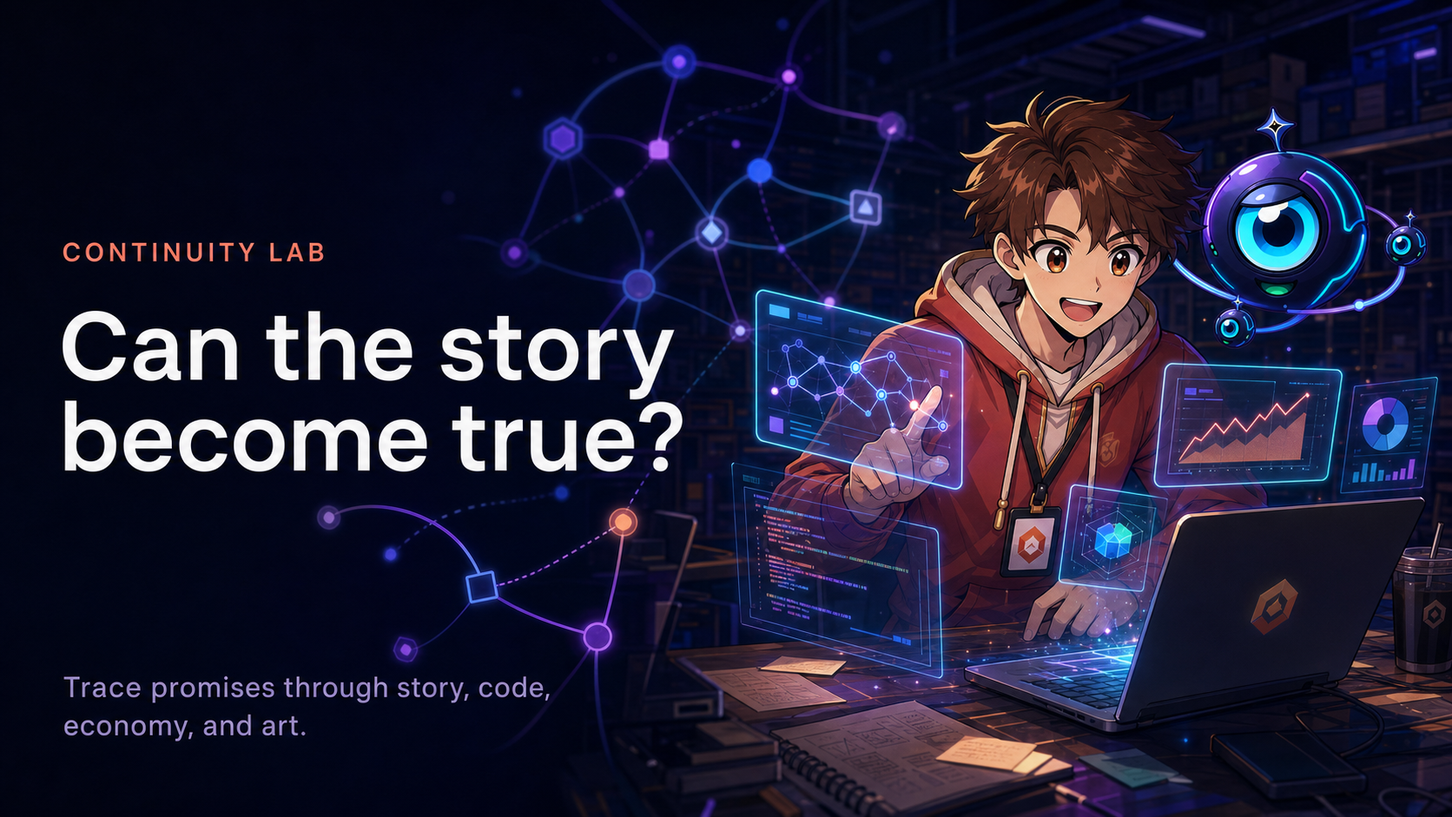
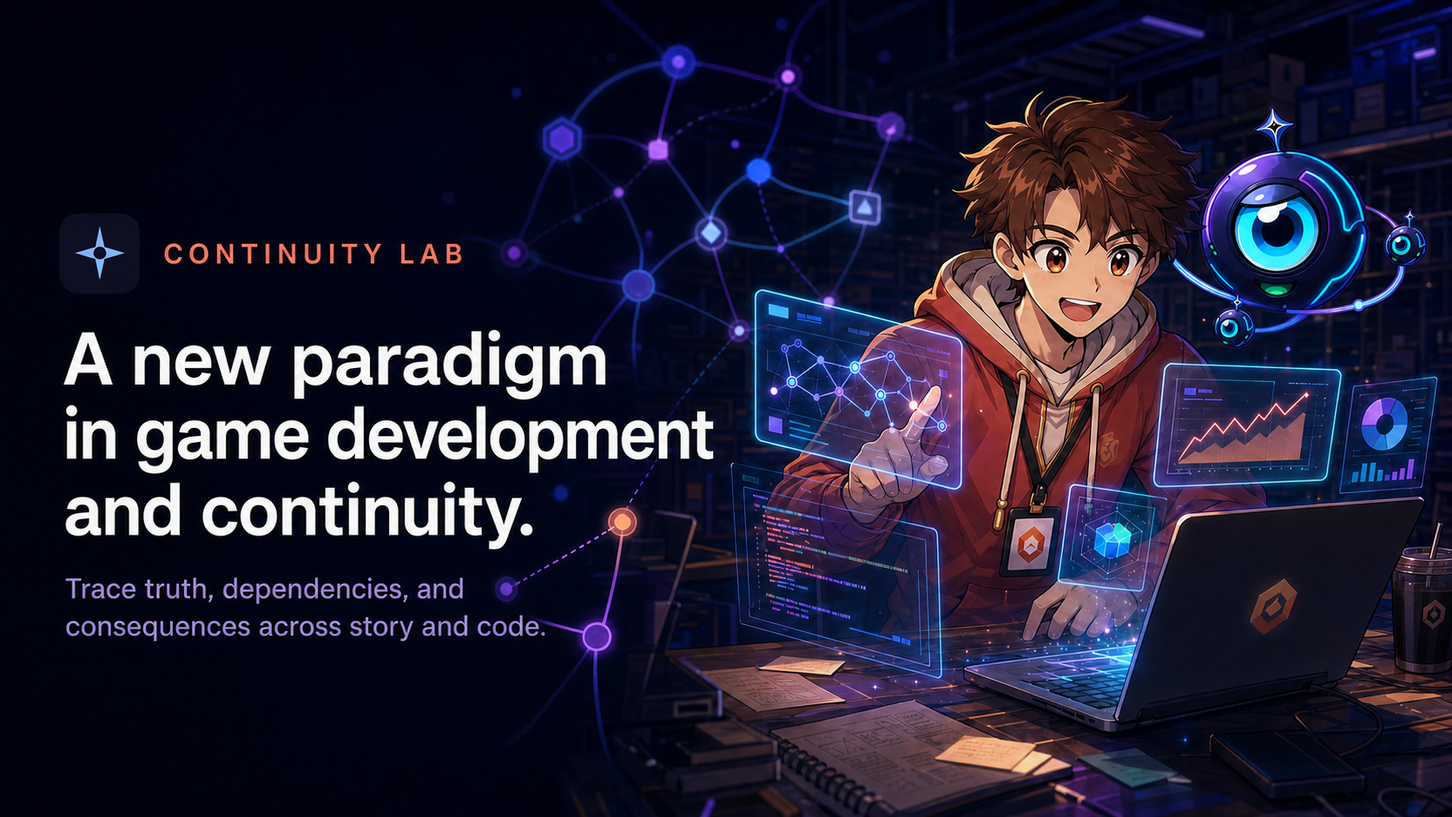
Polish Continuity Lab Build Week demo

diff --git a/app/page.tsx b/app/page.tsx
@@ -217,7 +217,6 @@ export default function Home() {
   const [analysisReceipt, setAnalysisReceipt] = useState<AnalysisReceipt | null>(REVIEWED_EXAMPLE_RECEIPT);
   const [isAnalyzing, setIsAnalyzing] = useState(false);
   const [isUploading, setIsUploading] = useState(false);
-  const [uploadDocumentType, setUploadDocumentType] = useState<UploadDocumentType>("narrative");
   const [engineMode, setEngineMode] = useState<EngineMode>("demonstration");
   const [answer, setAnswer] = useState<UiAnswer>(REVIEWED_EXAMPLE_ANSWER);
   const [sources, setSources] = useState<StoredSource[]>([]);
@@ -390,7 +389,7 @@ export default function Home() {
         const form = new FormData();
         form.set("projectId", WORKSPACE_PROJECT_ID);
         form.set("projectTitle", "Continuity Lab workspace");
-        form.set("documentType", uploadDocumentType);
+        form.set("documentType", "narrative");
         form.set("file", file);
         const response = await fetch("/api/continuity/sources", { method: "POST", body: form });
         const payload = await response.json() as { source?: StoredSource; capability?: string; message?: string; error?: string };
@@ -404,7 +403,7 @@ export default function Home() {
       if (stored) setProjectMode("workspace");
       showToast(failures.length
         ? `${stored} stored · ${failures.length} rejected${ignored ? ` · ${ignored} beyond the 12-file limit` : ""}: ${failures[0]}`
-        : `${stored} source${stored === 1 ? "" : "s"} stored as ${uploadDocumentType} evidence${ignored ? ` · ${ignored} beyond the 12-file limit were not sent` : ""}`);
+        : `${stored} source${stored === 1 ? "" : "s"} stored as project material${ignored ? ` · ${ignored} beyond the 12-file limit were not sent` : ""}`);
       return stored > 0;
     } catch (error) {
       showToast(error instanceof Error ? error.message : "Upload failed.");
@@ -507,11 +506,13 @@ export default function Home() {
 
   function selectWorkspace() {
     setProjectMode("workspace");
+    setSourcePanel(repository.phase === "ready" ? "github" : "upload");
     setHasAnalyzed(false);
     setAnalysisReceipt(null);
     setAnswer(EMPTY_ANSWER);
     setEngineMode("ready");
     setShowFullTrace(false);
+    window.requestAnimationFrame(() => document.getElementById("sources")?.scrollIntoView({ behavior: "smooth", block: "start" }));
   }
 
   function toggleTheme() {
@@ -534,7 +535,7 @@ export default function Home() {
   return (
     <main data-theme={theme}>
       <nav className="topbar">
-        <a className="brand" href="#top" aria-label="Continuity Lab home"><span className="brand-mark"><Icon name="branch" size={18}/></span><span>Continuity <i>Lab</i></span></a>
+        <a className="brand" href="#top" aria-label="Continuity Lab home"><img className="brand-logo" src="/continuity-lab-plugin-icon.png" alt=""/><span>Continuity <i>Lab</i></span></a>
         <div className="nav-status"><span className="status-dot"/><span>{sourceLabel}</span></div>
         <div className="nav-actions"><a href="#sources">How it works</a><button className="theme-toggle" onClick={toggleTheme} aria-label={`Switch to ${theme === "dark" ? "light" : "dark"} mode`}><Icon name={theme === "dark" ? "sun" : "moon"} size={15}/><span>{theme === "dark" ? "Light" : "Dark"}</span></button>{canDownloadWorkspaceResults && <button onClick={exportTrace}><Icon name="download" size={15}/> Download my results</button>}</div>
       </nav>
@@ -544,19 +545,19 @@ export default function Home() {
         <div className="hero-inner">
           <div className="hero-copy-block">
             <div className="eyebrow">STORY QUESTIONS, ANSWERED FROM YOUR OWN MATERIAL</div>
-            <h1>Find story problems<br/><em>before they get expensive.</em></h1>
+            <h1>Towards a new paradigm in<br/><em>game development and continuity.</em></h1>
             <p>Add your script, notes, or public game repository. Ask what is true, what can happen next, or what else must change if you edit a character, rule, cost, scene, or ending. Continuity Lab answers in plain language and shows the sources it used.</p>
           </div>
 
           <div className="question-card">
             <div className="mode-row">
               <button className={projectMode === "sample" ? "active" : ""} onClick={() => showReviewedExample()}><span/> Show the example</button>
-              <button className={projectMode === "workspace" ? "active" : ""} onClick={selectWorkspace}><span/> Use my files</button>
+              <button className={projectMode === "workspace" ? "active" : ""} onClick={selectWorkspace}><span/> {workspaceEvidenceCount ? "Use my project" : "Add my project"}</button>
             </div>
             <label htmlFor="continuity-question">Ask about the story or a planned change</label>
             <textarea id="continuity-question" value={question} onChange={(event) => setQuestion(event.target.value)} />
             <div className="question-footer">
-              <div className={`engine-badge ${engineMode}`}><span/>{engineLabel(engineMode, projectMode)}</div>
+              <div className={`engine-badge ${engineMode}`}><span/>{engineLabel(engineMode, projectMode, workspaceEvidenceCount > 0)}</div>
               <button className="primary-button" onClick={() => void analyze()} disabled={isAnalyzing || !question.trim()}>{isAnalyzing ? <span className="spinner"/> : <Icon name="arrow" size={18}/>} {isAnalyzing ? "Checking evidence…" : "Ask"}</button>
             </div>
           </div>
@@ -568,7 +569,7 @@ export default function Home() {
       <section className="sources-section" id="sources">
         <div className="section-intro">
           <div><div className="eyebrow dark">QUICK START</div><h2>How it works</h2></div>
-          <p>Start with the worked example, upload your own files, or connect a public GitHub repository. Ask a question. Continuity Lab finds the relevant material, explains its answer, and suggests what to change when something is missing or inconsistent.</p>
+          <p>Run the worked example here, add project material, or connect a public GitHub repository. For the Build Week demonstration, connect the MCP to ChatGPT and ask the same evidence-grounded questions in conversation.</p>
         </div>
 
         <div className="pipeline" aria-label="Continuity Lab processing pipeline">
@@ -577,7 +578,7 @@ export default function Home() {
 
         <div className="source-workspace">
           <div className="source-tabs" role="tablist">
-            {(["sample", "upload", "github", "mcp"] as SourcePanel[]).map((tab) => <button key={tab} role="tab" aria-selected={sourcePanel === tab} className={sourcePanel === tab ? "active" : ""} onClick={() => setSourcePanel(tab)}>{tab === "sample" ? "Worked example" : tab === "upload" ? "Upload files" : tab === "github" ? "GitHub repository" : "Use in ChatGPT"}</button>)}
+            {(["sample", "upload", "github", "mcp"] as SourcePanel[]).map((tab) => <button key={tab} role="tab" aria-selected={sourcePanel === tab} className={sourcePanel === tab ? "active" : ""} onClick={() => setSourcePanel(tab)}>{tab === "sample" ? "Worked example" : tab === "upload" ? "Upload material" : tab === "github" ? "Connect GitHub" : "Try Continuity Lab today!"}</button>)}
           </div>
 
           <div className="source-panel">
@@ -585,7 +586,7 @@ export default function Home() {
               <SamplePanel onAsk={showReviewedExample}/>
             )}
             {sourcePanel === "upload" && (
-              <UploadPanel sources={sources} isUploading={isUploading} documentType={uploadDocumentType} setDocumentType={setUploadDocumentType} onChange={addSource} onPaste={addPastedSource}/>
+              <UploadPanel sources={sources} isUploading={isUploading} onChange={addSource} onPaste={addPastedSource}/>
             )}
             {sourcePanel === "github" && (
               <GitHubPanel
@@ -634,7 +635,7 @@ export default function Home() {
         ) : answer.depth === "focused" && !showFullTrace ? (
           <article className="focused-answer-trace">
             <div><span>KEY CONTEXT</span><strong>{answer.entities.slice(0, 4).map((entity) => entity.name).join(" · ") || "No person or item was identified confidently"}</strong><small>{answer.evidence.slice(0, 3).map((item) => item.title || item.sourceId).join(" · ") || "No supporting source was found"}</small></div>
-            <button type="button" onClick={() => setShowFullTrace(true)}>Show sources and dependencies <Icon name="arrow" size={14}/></button>
+            <button type="button" onClick={() => setShowFullTrace(true)}>Show all sources and dependencies <Icon name="arrow" size={14}/></button>
           </article>
         ) : <>
           <div className="inspection-grid">
@@ -670,28 +671,23 @@ export default function Home() {
       </section>
 
       <section className="build-week-section">
-        <div><div className="eyebrow">FROM QUESTION TO ACTION</div><h2>Know what is true.<br/><em>See what comes next.</em></h2></div>
-        <div className="proof-points"><div><span>01</span><strong>Bring your material</strong><p>Use a script, story bible, notes, or a public repository.</p></div><div><span>02</span><strong>Ask a real question</strong><p>Check a fact, a possible event, a contradiction, or a planned change.</p></div><div><span>03</span><strong>Get useful next steps</strong><p>See the answer, the supporting sources, and the work needed to make the idea fit.</p></div></div>
+        <div><div className="eyebrow">FROM QUESTION TO ACTION</div><h2>Know what is true.<br/><em>See what comes next.</em></h2><p className="future-intro">Today Continuity Lab answers and traces in read-only mode. The longer-term opportunity is an agent preflight: plan against project truth, make a bounded change, then verify every affected dependency before shipping.</p></div>
+        <div className="proof-points"><div><span>01</span><strong>Bring your material</strong><p>Use a script, story bible, notes, or a public repository.</p></div><div><span>02</span><strong>Ask a real question</strong><p>Check a fact, possible event, contradiction, dependency, or planned change.</p></div><div><span>03</span><strong>Get useful next steps</strong><p>See the answer, supporting sources, and work needed to make the idea fit.</p></div><div><span>04 · FUTURE</span><strong>Guide autonomous development</strong><p>Give coding and narrative agents a grounded stop/go contract, then re-check downstream effects after every edit.</p></div></div>
       </section>
 
-      <footer><div className="brand"><span className="brand-mark"><Icon name="branch" size={18}/></span><span>Continuity <i>Lab</i></span></div><p>Keep every story change grounded in what came before.</p><button onClick={() => window.scrollTo({ top: 0, behavior: "smooth" })}>Back to top ↑</button></footer>
+      <footer><div className="brand"><img className="brand-logo" src="/continuity-lab-plugin-icon.png" alt=""/><span>Continuity <i>Lab</i></span></div><p>Keep every story change grounded in what came before.</p><button onClick={() => window.scrollTo({ top: 0, behavior: "smooth" })}>Back to top ↑</button></footer>
       {toast && <div className="toast"><Icon name="check" size={16}/>{toast}</div>}
     </main>
   );
 }
 
 function SamplePanel({ onAsk }: { onAsk: (question?: string) => void }) {
-  return <div className="sample-panel"><div className="source-symbol coral"><Icon name="branch" size={23}/></div><div><span className="panel-kicker">WORKED EXAMPLE</span><h3>Vibe Code Simulator</h3><p>The full story promises that the Founder will eventually pay $47,000 for Grandma&apos;s operation. The playable prototype currently covers only Days 7–8, starts with $700, and cannot reach that outcome. Choose a question to see exactly where the implemented story stops and what a later chapter must add.</p><div className="sample-question-list">{SUGGESTED_QUESTIONS.map((question) => <button key={question} onClick={() => onAsk(question)}>{question}<Icon name="arrow" size={14}/></button>)}</div></div><button className="outline-button" onClick={() => onAsk()}>Show the main answer <Icon name="arrow" size={16}/></button></div>;
+  return <div className="sample-panel"><div className="source-symbol coral"><Icon name="branch" size={23}/></div><div><span className="panel-kicker">WORKED EXAMPLE</span><h3>Vibe Code Simulator</h3><p>The full story promises that the Founder will eventually pay $47,000 for Grandma&apos;s operation. The playable prototype currently covers only Days 7–8, starts with $700, and cannot reach that outcome. This reviewed snapshot also preserves the real portrait mismatch Continuity Lab found, so the demonstration can show the diagnosis, the dependency trace, and the corrected USER_0047 binding as a before-and-after.</p><div className="sample-question-list">{SUGGESTED_QUESTIONS.map((question) => <button key={question} onClick={() => onAsk(question)}>{question}<Icon name="arrow" size={14}/></button>)}</div></div><button className="outline-button" onClick={() => onAsk()}>Show the main answer <Icon name="arrow" size={16}/></button></div>;
 }
 
-function UploadPanel({ sources, isUploading, documentType, setDocumentType, onChange, onPaste }: { sources: StoredSource[]; isUploading: boolean; documentType: UploadDocumentType; setDocumentType: (value: UploadDocumentType) => void; onChange: (event: ChangeEvent<HTMLInputElement>) => void; onPaste: (text: string) => Promise<boolean> }) {
+function UploadPanel({ sources, isUploading, onChange, onPaste }: { sources: StoredSource[]; isUploading: boolean; onChange: (event: ChangeEvent<HTMLInputElement>) => void; onPaste: (text: string) => Promise<boolean> }) {
   const [pastedText, setPastedText] = useState("");
-  const typeExplanation = documentType === "narrative"
-    ? "The story, characters, events, and rules as this document describes them. Uploading it does not automatically make every statement approved canon."
-    : documentType === "proposal"
-      ? "A possible change or experiment. It stays separate from the current version."
-      : "Background, research, commentary, or historical material used to explain context.";
-  return <div className="upload-panel"><div className="upload-input-column"><label className="upload-classifier"><span>How should this document be read?</span><select value={documentType} disabled={isUploading} onChange={(event) => setDocumentType(event.target.value as UploadDocumentType)}><option value="narrative">Story or source text</option><option value="reference">Reference material</option><option value="proposal">Draft or proposal</option></select><small>{typeExplanation}</small></label><label className="upload-drop"><input type="file" multiple accept=".txt,.md,.markdown,.json,.yaml,.yml,.xml,.csv,.tsv,.pdf,.doc,.docx,.html,.htm,.pptx" onChange={(event) => void onChange(event)}/><span className="source-symbol blue"><Icon name="upload" size={23}/></span><strong>{isUploading ? "Storing and indexing…" : "Upload up to 12 sources"}</strong><p>TXT, Markdown, JSON, YAML, XML, CSV/TSV, HTML · operator preview: searchable PDF, DOC/DOCX, PPTX · 20 MB each</p><small>PDF/Office upload is allowlisted because its contents are not yet credential-scanned. XLSX, images, scanned/OCR-only PDFs, EPUB, and RTF need a dedicated extractor.</small></label><div className="paste-source"><textarea value={pastedText} onChange={(event) => setPastedText(event.target.value)} placeholder="Or paste a story, summary, cast list, ID table, or notes…"/><button type="button" disabled={isUploading || !pastedText.trim()} onClick={() => void onPaste(pastedText).then((stored) => { if (stored) setPastedText(""); })}>Store pasted text</button></div></div><div className="uploaded-list"><div className="panel-heading"><span>WORKSPACE SOURCES</span><strong>{sources.length}</strong></div>{sources.length ? sources.slice(0, 5).map((source) => <div key={source.id} title={source.indexError || "Provider indexing does not independently verify complete extraction."}><Icon name="file" size={17}/><span><strong>{source.logicalName || source.originalFilename || source.filename}</strong><small>{formatBytes(source.byteSize)} · {source.documentType} · {source.authority} · {(source.extractionStatus ?? "not_yet_verified").replaceAll("_", " ")}</small></span><em className={source.indexStatus}>{source.indexStatus.replaceAll("_", " ")}</em></div>) : <EmptyState copy="Each source will show storage/index status. Indexed means searchable by the provider; it does not prove that every page or entity was extracted."/>}</div></div>;
+  return <div className="upload-panel"><div className="upload-input-column"><div className="upload-intro"><span className="panel-kicker">ADD PROJECT MATERIAL</span><h3>Upload the sources you want Continuity Lab to reason from.</h3><p>Story bibles, scripts, specifications, notes, and structured records remain source material—not automatically approved canon.</p></div><label className="upload-drop"><input type="file" multiple accept=".txt,.md,.markdown,.json,.yaml,.yml,.xml,.csv,.tsv,.pdf,.doc,.docx,.html,.htm,.pptx" onChange={(event) => void onChange(event)}/><span className="source-symbol blue"><Icon name="upload" size={23}/></span><strong>{isUploading ? "Storing and indexing…" : "Upload up to 12 sources"}</strong><p>TXT, Markdown, JSON, YAML, XML, CSV/TSV, HTML · operator preview: searchable PDF, DOC/DOCX, PPTX · 20 MB each</p><small>PDF/Office upload is allowlisted because its contents are not yet credential-scanned. XLSX, images, scanned/OCR-only PDFs, EPUB, and RTF need a dedicated extractor.</small></label><div className="paste-source"><textarea value={pastedText} onChange={(event) => setPastedText(event.target.value)} placeholder="Or paste a story, summary, cast list, ID table, or notes…"/><button type="button" disabled={isUploading || !pastedText.trim()} onClick={() => void onPaste(pastedText).then((stored) => { if (stored) setPastedText(""); })}>Store pasted text</button></div></div><div className="uploaded-list"><div className="panel-heading"><span>PROJECT SOURCES</span><strong>{sources.length}</strong></div>{sources.length ? sources.slice(0, 5).map((source) => <div key={source.id} title={source.indexError || "Provider indexing does not independently verify complete extraction."}><Icon name="file" size={17}/><span><strong>{source.logicalName || source.originalFilename || source.filename}</strong><small>{formatBytes(source.byteSize)} · {source.documentType} · {source.authority} · {(source.extractionStatus ?? "not_yet_verified").replaceAll("_", " ")}</small></span><em className={source.indexStatus}>{source.indexStatus.replaceAll("_", " ")}</em></div>) : <EmptyState copy="Files you add will appear here with their storage and indexing status. Indexed means searchable; it does not mean every statement has become canon."/>}</div></div>;
 }
 
 function GitHubPanel({ repository, repositoryUrl, repositoryRef, repositoryScope, repositoryScopeChoices, setRepositoryUrl, setRepositoryRef, setRepositoryScope, onSubmit }: {
@@ -733,7 +729,7 @@ function McpPanel() {
     setCopied(true);
     window.setTimeout(() => setCopied(false), 1800);
   }
-  return <div className="mcp-panel"><div><div className="source-symbol ink"><Icon name="code" size={23}/></div><span className="panel-kicker">CONNECT TO CHATGPT</span><h3>Use Continuity Lab inside a ChatGPT conversation.</h3><p>ChatGPT can call the same read-only tools while you talk. You can ask about the built-in example, pass text from an attachment, or give it a public GitHub repository to inspect.</p><div className="connection-status ready"><strong>Ready to connect</strong><p>This MCP address is public so ChatGPT can reach it. The tools are read-only and do not ask you to paste an OpenAI API key into this site.</p></div></div><div className="connect-guide"><span className="panel-kicker">CONNECT IN FOUR STEPS</span><ol><li><span>1</span><p>In ChatGPT, open <b>Settings → Security and login</b> and turn on <b>Developer mode</b>.</p></li><li><span>2</span><p>Open <b>Settings → Plugins</b>, press <b>+</b>, and create a developer-mode app named Continuity Lab.</p></li><li><span>3</span><p>Paste the MCP address below. After ChatGPT lists the five tools, press <b>Create</b>.</p></li><li><span>4</span><p>Start a new chat, choose <b>+ → More → Continuity Lab</b>, then ask a question normally.</p></li></ol><div className="mcp-endpoint"><span>MCP ADDRESS</span><code>{endpoint}</code><button type="button" onClick={() => void copyEndpoint()}>{copied ? "Copied" : "Copy address"}</button></div><div className="mcp-actions"><a href="https://chatgpt.com/plugins" target="_blank" rel="noreferrer">Open ChatGPT Plugins <Icon name="arrow" size={14}/></a><a href="https://developers.openai.com/apps-sdk/deploy/connect-chatgpt" target="_blank" rel="noreferrer">Official connection guide <Icon name="arrow" size={14}/></a></div></div></div>;
+  return <div className="mcp-panel"><div><img className="mcp-brand-logo" src="/continuity-lab-plugin-icon.png" alt="Continuity Lab compass-star logo"/><span className="panel-kicker">TRY CONTINUITY LAB TODAY</span><h3>Use Continuity Lab inside a ChatGPT conversation.</h3><p>ChatGPT can call the same five read-only tools while you talk: answer a question, trace dependencies, analyze a proposed change, compile supplied material, or inspect a public GitHub repository.</p><div className="mcp-example"><span>ASK THE WORKED EXAMPLE</span><p>“Trace every dependency required before Grandma&apos;s operation can happen. Include missing links and downstream effects.”</p><small>The MCP returns the same cited entities and dependency chain shown in the worked example above.</small></div><div className="connection-status ready"><strong>Ready to connect</strong><p>This MCP address is public so ChatGPT can reach it. The tools are read-only and do not ask you to paste an OpenAI API key into this site.</p></div></div><div className="connect-guide"><span className="panel-kicker">CONNECT IN FOUR STEPS</span><ol><li><span>1</span><p>In ChatGPT, open <b>Settings → Security and login</b> and turn on <b>Developer mode</b>.</p></li><li><span>2</span><p>Open <b>Settings → Plugins</b>, press <b>+</b>, and create a developer-mode app named Continuity Lab.</p></li><li><span>3</span><p>Paste the MCP address below. After ChatGPT lists the five tools, press <b>Create</b>.</p></li><li><span>4</span><p>Start a new chat, choose <b>+ → More → Continuity Lab</b>, then ask a question normally.</p></li></ol><div className="mcp-endpoint"><span>MCP ADDRESS</span><code>{endpoint}</code><button type="button" onClick={() => void copyEndpoint()}>{copied ? "Copied" : "Copy address"}</button></div><div className="mcp-actions"><a href="https://chatgpt.com/plugins" target="_blank" rel="noreferrer">Open ChatGPT Plugins <Icon name="arrow" size={14}/></a><a href="https://developers.openai.com/apps-sdk/deploy/connect-chatgpt" target="_blank" rel="noreferrer">Official connection guide <Icon name="arrow" size={14}/></a></div></div></div>;
 }
 
 function DependencyView({ dependencies, path }: { dependencies: DependencyEdge[]; path: string[] }) {
@@ -746,11 +742,11 @@ function EmptyState({ copy }: { copy: string }) {
   return <div className="empty-state"><span>—</span><p>{copy}</p></div>;
 }
 
-function engineLabel(mode: EngineMode, projectMode: ProjectMode) {
+function engineLabel(mode: EngineMode, projectMode: ProjectMode, hasWorkspaceMaterial: boolean) {
   if (mode === "gpt-5.6-sol") return "GPT-5.6 Sol · live reasoning";
   if (mode === "demonstration") return "Vibe Code Simulator example";
   if (mode === "unavailable") return "Live reasoning needs setup";
-  return projectMode === "sample" ? "Example ready" : "Your files selected";
+  return projectMode === "sample" ? "Example ready" : hasWorkspaceMaterial ? "Your project is ready" : "Add material below";
 }
 
 function verdictLabel(verdict: Verdict) {

diff --git a/app/globals.css b/app/globals.css
@@ -42,7 +42,7 @@ button:focus-visible, input:focus-visible, textarea:focus-visible, a:focus-visib
 }
 .brand { display: inline-flex; align-items: center; gap: 10px; color: var(--ink); text-decoration: none; font-weight: 720; letter-spacing: -.035em; font-size: 18px; }
 .brand i { color: var(--cobalt); font-family: var(--font-instrument-serif), serif; font-weight: 400; }
-.brand-mark { width: 32px; height: 32px; display: grid; place-items: center; color: white; background: var(--cobalt); border-radius: 8px 3px 8px 3px; }
+.brand-logo { width: 34px; height: 34px; display: block; flex: 0 0 auto; border-radius: 11px; box-shadow: 0 5px 16px rgba(30,42,95,.16); }
 .nav-status { display: flex; align-items: center; gap: 8px; color: #6e7486; font-size: 11px; padding: 8px 12px; border: 1px solid #e0e0db; background: #faf9f4; border-radius: 6px; }
 .status-dot { width: 7px; height: 7px; border-radius: 50%; background: var(--success); }
 .nav-actions { display: flex; justify-content: flex-end; align-items: center; gap: 8px; }
@@ -122,10 +122,9 @@ button:focus-visible, input:focus-visible, textarea:focus-visible, a:focus-visib
 
 .upload-panel { display: grid; grid-template-columns: .9fr 1.1fr; gap: 28px; }
 .upload-input-column { display: flex; min-width: 0; flex-direction: column; gap: 10px; }
-.upload-classifier { display: grid; grid-template-columns: minmax(120px, .8fr) minmax(150px, 1fr); gap: 6px 12px; align-items: center; padding: 12px; border: 1px solid var(--line); background: white; }
-.upload-classifier > span { color: #626a7b; font-size: 9px; font-weight: 760; letter-spacing: .06em; text-transform: uppercase; }
-.upload-classifier select { width: 100%; height: 36px; padding: 0 9px; color: var(--ink); background: white; border: 1px solid #cfd0cf; border-radius: 4px; font-size: 10px; }
-.upload-classifier small { grid-column: 1 / -1; color: #858b98; font-size: 8px; line-height: 1.45; }
+.upload-intro { padding: 4px 2px 10px; }
+.upload-intro h3 { margin: 8px 0 7px; font-size: 23px; line-height: 1.12; letter-spacing: -.035em; }
+.upload-intro p { margin: 0; color: var(--muted); font-size: 10px; line-height: 1.55; }
 .upload-drop { min-height: 187px; display: flex; flex: 1; flex-direction: column; align-items: center; justify-content: center; padding: 20px; text-align: center; border: 1px dashed #aeb2bc; background: #fafaf6; cursor: pointer; }
 .upload-drop:hover { border-color: var(--cobalt); background: #f8f9ff; }
 .upload-drop input { display: none; }
@@ -175,6 +174,11 @@ button:focus-visible, input:focus-visible, textarea:focus-visible, a:focus-visib
 
 .mcp-panel { display: grid; grid-template-columns: .85fr 1.15fr; gap: 52px; align-items: start; }
 .mcp-panel .source-symbol { margin-bottom: 17px; }
+.mcp-brand-logo { width: 58px; height: 58px; display: block; margin-bottom: 18px; border-radius: 18px; box-shadow: 0 12px 30px rgba(36,54,125,.18); }
+.mcp-example { margin-top: 20px; padding: 16px; color: var(--ink); background: var(--cobalt-soft); border-left: 4px solid var(--cobalt); }
+.mcp-example > span { color: var(--cobalt); font-family: var(--font-geist-mono), monospace; font-size: 8px; font-weight: 800; letter-spacing: .12em; }
+.mcp-example p { margin: 8px 0 6px; color: var(--ink); font-size: 12px; font-weight: 650; line-height: 1.55; }
+.mcp-example small { color: #6c748a; font-size: 9px; line-height: 1.5; }
 .connection-status { margin-top: 22px; padding: 15px 16px; color: #604b43; background: #fff2ec; border-left: 4px solid var(--coral); }
 .connection-status strong { display: block; margin-bottom: 5px; color: #8f3f31; font-size: 11px; }
 .connection-status p { color: inherit; font-size: 10px; line-height: 1.6; }
@@ -309,8 +313,9 @@ button:focus-visible, input:focus-visible, textarea:focus-visible, a:focus-visib
 .build-week-section { padding: 90px max(24px, calc((100vw - 1232px) / 2)); display: grid; grid-template-columns: .85fr 1.15fr; gap: 75px; color: white; background: var(--ink); }
 .build-week-section .eyebrow { color: #9daaff; }
 .build-week-section h2 { margin: 0; font-size: clamp(40px, 4.6vw, 62px); line-height: .98; letter-spacing: -.055em; }
-.proof-points { display: grid; grid-template-columns: repeat(3, 1fr); gap: 1px; background: #3a4257; border: 1px solid #3a4257; }
-.proof-points > div { min-height: 210px; padding: 22px; background: #172139; }
+.future-intro { max-width: 500px; margin: 25px 0 0; color: #aeb7ca; font-size: 12px; line-height: 1.7; }
+.proof-points { display: grid; grid-template-columns: repeat(2, 1fr); gap: 1px; background: #3a4257; border: 1px solid #3a4257; }
+.proof-points > div { min-height: 185px; padding: 22px; background: #172139; }
 .proof-points span { color: #8fa0ff; font-family: var(--font-geist-mono), monospace; font-size: 9px; }
 .proof-points strong { display: block; margin: 34px 0 9px; font-size: 14px; }
 .proof-points p { margin: 0; color: #9da6b9; font-size: 10px; line-height: 1.6; }
@@ -341,7 +346,7 @@ main[data-theme="dark"] {
 main[data-theme="dark"] .topbar { background: rgba(10,14,23,.94); border-color: #293142; }
 main[data-theme="dark"] .brand { color: #f5efe8; }
 main[data-theme="dark"] .brand i { color: #58d9dd; }
-main[data-theme="dark"] .brand-mark { color: #0b1018; background: #58d9dd; }
+main[data-theme="dark"] .brand-logo { box-shadow: 0 6px 20px rgba(75,166,255,.18); }
 main[data-theme="dark"] .nav-status { color: #aeb5c5; background: #111827; border-color: #30394c; }
 main[data-theme="dark"] .nav-actions a,
 main[data-theme="dark"] .nav-actions button { color: #b8bfcd; }
@@ -375,7 +380,6 @@ main[data-theme="dark"] .sample-tags span { color: #c3c8d2; background: #171e2d;
 main[data-theme="dark"] .sample-question-list button:hover { color: #58d9dd; background: #132c35; border-color: #327b82; }
 main[data-theme="dark"] .outline-button { color: #f5efe8; border-color: #f5efe8; }
 main[data-theme="dark"] .outline-button:hover { color: #101620; background: #58d9dd; border-color: #58d9dd; }
-main[data-theme="dark"] .upload-classifier,
 main[data-theme="dark"] .upload-drop,
 main[data-theme="dark"] .paste-source textarea,
 main[data-theme="dark"] .github-panel input,
@@ -383,9 +387,8 @@ main[data-theme="dark"] .github-panel select { color: #f0ebe5; background: #1016
 main[data-theme="dark"] .github-panel .repository-scope-choice { background: #211a14; border-color: #62452e; }
 main[data-theme="dark"] .upload-drop { background: #0f1521; }
 main[data-theme="dark"] .upload-drop:hover { background: #13252d; border-color: #58d9dd; }
-main[data-theme="dark"] .upload-classifier > span,
 main[data-theme="dark"] .github-panel label span { color: #aeb6c7; }
-main[data-theme="dark"] .upload-classifier select { color: #f0ebe5; background: #111827; border-color: #354055; }
+main[data-theme="dark"] .upload-intro p { color: #aeb6c7; }
 main[data-theme="dark"] .paste-source button,
 main[data-theme="dark"] .dark-button { color: #101620; background: #ff7446; border-color: #ff7446; }
 main[data-theme="dark"] .uploaded-list { border-color: #30394a; }
@@ -407,6 +410,10 @@ main[data-theme="dark"] .mcp-endpoint > span { color: #91aaa9; }
 main[data-theme="dark"] .mcp-endpoint button { color: #081014; background: #66e1de; }
 main[data-theme="dark"] .mcp-actions a { color: #70e7e3; border-color: #427f82; }
 main[data-theme="dark"] .mcp-actions a:hover { color: #081014; background: #66e1de; border-color: #66e1de; }
+main[data-theme="dark"] .mcp-example { color: #f1ece6; background: #132c35; border-color: #58d9dd; }
+main[data-theme="dark"] .mcp-example > span { color: #58d9dd; }
+main[data-theme="dark"] .mcp-example p { color: #f1ece6; }
+main[data-theme="dark"] .mcp-example small { color: #b6c3cf; }
 main[data-theme="dark"] .mcp-contract { color: #dce4ee; background: #0e1421; }
 main[data-theme="dark"] .mcp-contract code { color: #d9f8f6; background: #162334; }
 main[data-theme="dark"] .answer-card,
@@ -523,8 +530,6 @@ main[data-theme="dark"] footer button { color: #aeb6c5; }
   .primary-button { padding: 0 11px; }
   .source-tabs { padding: 0 4px; }
   .source-tabs button { padding: 0 10px; }
-  .upload-classifier { grid-template-columns: 1fr; }
-  .upload-classifier small { grid-column: 1; }
   .instrument-card, .primary-answer { padding: 20px; }
   .evidence-list summary { grid-template-columns: 58px 1fr 16px; }
   .evidence-detail { padding-left: 0; }

diff --git a/lib/continuity/demo.ts b/lib/continuity/demo.ts
@@ -282,7 +282,7 @@ export const VCS_DEMO_EVIDENCE: EvidenceChunk[] = [
     sourceVersionId: "SRC-VCS-UI-BINDINGS-v3",
     title: "Customer-message visual binding",
     locator: "customer-message / adjacent portrait",
-    text: "The shipped Day 8 USER_0047 customer-message presentation binds its adjacent portrait slot to ART-27, which is CAST-27. The message text refers to USER_0047's separate unnamed grandmother, so the visual and textual referents do not match. The Founder portrait is the proposed replacement for this framing slot.",
+    text: "The shipped Day 8 USER_0047 customer-message presentation binds its adjacent portrait slot to ART-27, which is CAST-27. The message text refers to USER_0047's separate unnamed grandmother, so the visual and textual referents do not match. The canonical USER_0047 portrait is the proposed replacement for this framing slot.",
     score: 0.88,
     authority: "production",
     role: "implementation",
@@ -495,7 +495,7 @@ function visualBindingAnswer(request: QueryRequest, byId: Map<string, EvidenceCh
   return baseAnswer(request, {
     verdict: "CONFLICT",
     truthStatus: "conflicted",
-    answer: "No—the CAST-27 portrait is not a valid identity image for that message. The shipped Day 8 customer card sends two different identity signals: its adjacent portrait is ART-27, the asset for CAST-27 (the Founder protagonist's grandmother), while the text refers to USER_0047's different, unnamed grandmother. The picture therefore shows CAST-27, but it does not identify the grandmother discussed by the customer. Rebinding the framing slot to the Founder would remove the false association without merging the two grandmothers.",
+    answer: "No—the CAST-27 portrait is not a valid identity image for that message. The worked Day 8 snapshot sends two different identity signals: its adjacent portrait is ART-27, the asset for CAST-27 (the Founder protagonist's grandmother), while the text refers to USER_0047's different, unnamed grandmother. The picture therefore shows CAST-27, but it does not identify the grandmother discussed by the customer. Rebinding the slot to USER_0047—the actual speaker—removes the false association without merging the two grandmothers.",
     confidence: "high",
     evidence: compactReferences([
       reference(byId, "EV-VCS-PORTRAIT-CONSTRAINT", "supports", "Establishes the identity rule for a customer-message portrait.", "normative"),
@@ -531,13 +531,13 @@ function visualBindingAnswer(request: QueryRequest, byId: Map<string, EvidenceCh
       evidenceIds: ["EV-VCS-CUSTOMER-MESSAGE-BINDING"],
     }],
     proposal: {
-      summary: "Use the Founder portrait for the USER_0047 customer-message framing slot while keeping ART-27 reserved for scenes explicitly about CAST-27.",
-      assumptions: ["The framing portrait represents the player-facing speaker or viewpoint, not a newly asserted identity for the customer's grandmother."],
+      summary: "Use the canonical USER_0047 portrait for the customer-message framing slot while keeping ART-27 reserved for scenes explicitly about CAST-27.",
+      assumptions: ["The framing portrait identifies the speaker, not a newly asserted identity for the customer's grandmother."],
       requiredChanges: ["Replace the customer-message portrait binding.", "Retain stable IDs for CAST-27 and the unnamed customer grandmother.", "Add a UI assertion that message text and portrait roles cannot silently merge entities."],
       downstreamRisks: ["Other customer messages may reuse the same incorrect binding.", "A purely visual regression test may miss semantic identity drift."],
     },
     followUpQuestions: [...VCS_DEMO_FOLLOW_UPS.visualBinding],
-    caveats: ["The Founder replacement is a proposed presentation fix; it does not change either grandmother's canonical identity."],
+    caveats: ["The USER_0047 replacement is a presentation fix; it does not change either grandmother's canonical identity."],
   });
 }
 

diff --git a/app/layout.tsx b/app/layout.tsx
@@ -12,16 +12,16 @@ export async function generateMetadata(): Promise<Metadata> {
   const host = requestHeaders.get("x-forwarded-host") ?? requestHeaders.get("host") ?? "localhost:3000";
   const protocol = requestHeaders.get("x-forwarded-proto") ?? (host.startsWith("localhost") ? "http" : "https");
   const base = new URL(`${protocol}://${host}`);
-  const title = "Continuity Lab — Find story problems before they get expensive";
-  const description = "Add a script, notes, or a public repository. Ask what is true, what can happen next, or what else must change—and see the sources behind the answer.";
+  const title = "Continuity Lab — A new paradigm in game development and continuity";
+  const description = "Add project material or a public repository, ask what is true or what must happen next, and trace the cited dependencies behind the answer.";
   const socialImage = new URL("/og.png", base).toString();
 
   return {
     metadataBase: base,
     title,
     description,
-    icons: { icon: "/favicon.svg", shortcut: "/favicon.svg" },
-    openGraph: { title, description, type: "website", url: base, images: [{ url: socialImage, width: 1672, height: 941, alt: "Continuity Lab story analysis" }] },
+    icons: { icon: "/continuity-lab-plugin-icon.png", shortcut: "/continuity-lab-plugin-icon.png", apple: "/continuity-lab-plugin-icon.png" },
+    openGraph: { title, description, type: "website", url: base, images: [{ url: socialImage, width: 1672, height: 941, alt: "Continuity Lab game development and continuity analysis" }] },
     twitter: { card: "summary_large_image", title, description, images: [socialImage] },
   };
 }
